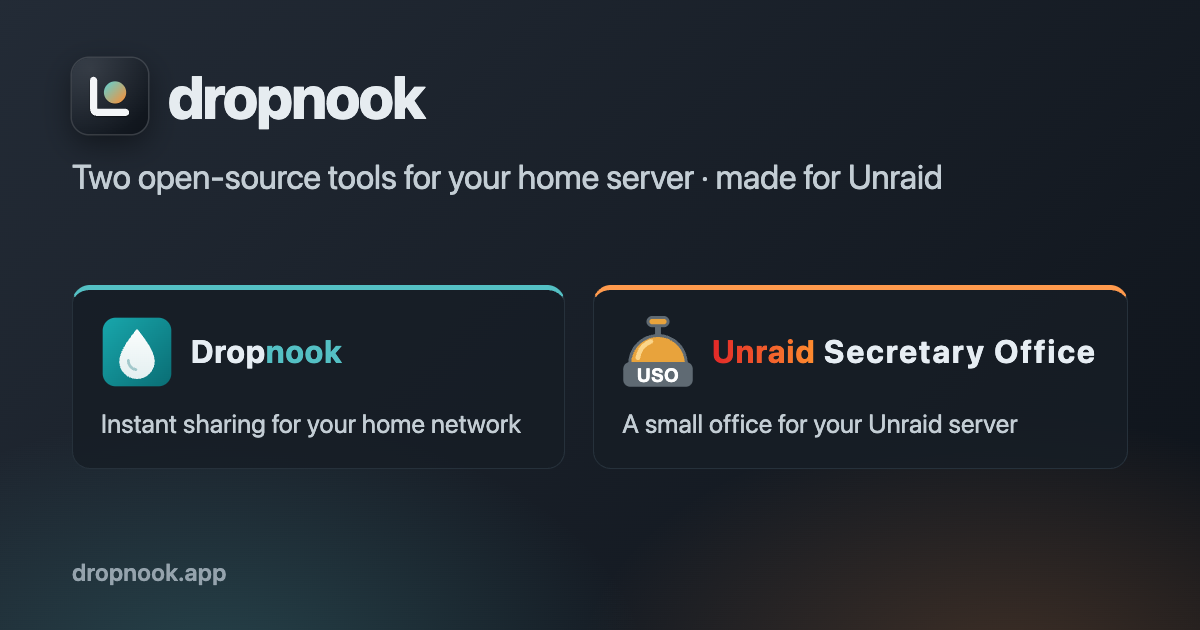
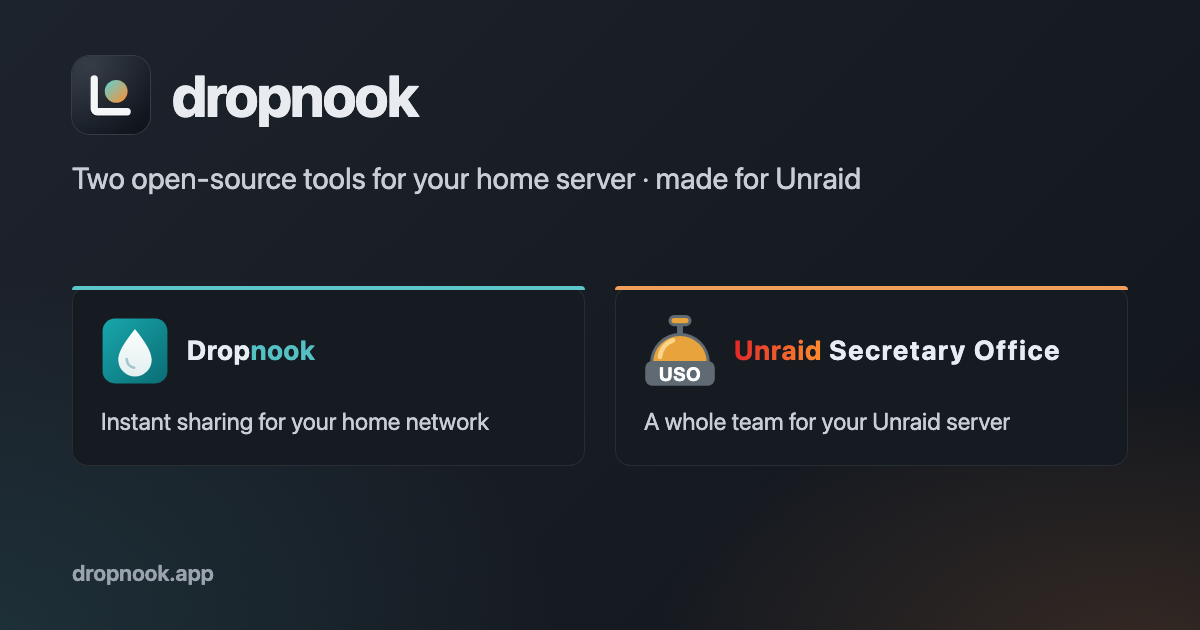
USO card: «A whole team supports you in running your Unraid server» — the office's own lead — and all ten characters by name (Backupsy, Restori, Snapshotini; Moverelli, Jack Streamer; Night Watchman, Protocolli, Dustdevil; Team Lead, Consultant); meta, JSON-LD, README and the social preview say «a w

diff --git a/de/index.html b/de/index.html
@@ -5,7 +5,7 @@
 <meta name="viewport" content="width=device-width, initial-scale=1">
 <meta name="color-scheme" content="light dark">
 <title>dropnook — zwei Open-Source-Werkzeuge für deinen Heimserver</title>
-<meta name="description" content="dropnook macht zwei kostenlose Open-Source-Werkzeuge für deinen Unraid-Server: Dropnook, Instant-Share fürs Heimnetz, und das Unraid Secretary Office, ein kleines Sekretariat, das sich um deinen Server kümmert. Keine Cloud, kein Konto.">
+<meta name="description" content="dropnook macht zwei kostenlose Open-Source-Werkzeuge für deinen Unraid-Server: Dropnook, Instant-Share fürs Heimnetz, und das Unraid Secretary Office, ein ganzes Team, das dich bei deiner Serveradministration unterstützt. Keine Cloud, kein Konto.">
 <link rel="canonical" href="https://dropnook.app/de/">
 <link rel="alternate" hreflang="en" href="https://dropnook.app/">
 <link rel="alternate" hreflang="de" href="https://dropnook.app/de/">
@@ -15,7 +15,7 @@
 <meta property="og:locale" content="de_CH">
 <meta property="og:locale:alternate" content="en_GB">
 <meta property="og:title" content="dropnook — zwei Open-Source-Werkzeuge für deinen Heimserver">
-<meta property="og:description" content="Dropnook — Instant-Share fürs Heimnetz. Unraid Secretary Office — ein kleines Sekretariat für deinen Unraid-Server. Kostenlos und Open Source.">
+<meta property="og:description" content="Dropnook — Instant-Share fürs Heimnetz. Unraid Secretary Office — ein ganzes Team für deinen Unraid-Server. Kostenlos und Open Source.">
 <meta property="og:url" content="https://dropnook.app/de/">
 <meta property="og:image" content="https://dropnook.app/social-preview.png">
 <meta property="og:image:width" content="1200">
@@ -61,7 +61,7 @@
    "@id": "https://dropnook.app/de/#page",
    "url": "https://dropnook.app/de/",
    "name": "dropnook — zwei Open-Source-Werkzeuge für deinen Heimserver",
-   "description": "dropnook macht zwei kostenlose Open-Source-Werkzeuge für deinen Unraid-Server: Dropnook, Instant-Share fürs Heimnetz, und das Unraid Secretary Office, ein kleines Sekretariat, das sich um deinen Server kümmert. Keine Cloud, kein Konto.",
+   "description": "dropnook macht zwei kostenlose Open-Source-Werkzeuge für deinen Unraid-Server: Dropnook, Instant-Share fürs Heimnetz, und das Unraid Secretary Office, ein ganzes Team, das dich bei deiner Serveradministration unterstützt. Keine Cloud, kein Konto.",
    "inLanguage": "de",
    "isPartOf": {
     "@id": "https://dropnook.app/#site"
@@ -105,7 +105,7 @@
    "@id": "https://uso.dropnook.app/#software",
    "name": "Unraid Secretary Office",
    "alternateName": "USO",
-   "description": "Ein kleines Sekretariat für deinen Unraid-Server — ein Team von Figuren, jede kümmert sich um einen Teil davon.",
+   "description": "Ein ganzes Team unterstützt dich bei deiner Serveradministration — zehn Figuren, jede kümmert sich um einen Teil davon.",
    "url": "https://uso.dropnook.app/",
    "applicationCategory": "UtilitiesApplication",
    "applicationSubCategory": "Server administration",
@@ -182,11 +182,12 @@
           <source media="(prefers-color-scheme: dark)" srcset="../logos/uso-title-dark.svg">
           <img src="../logos/uso-title-light.svg" width="580" height="60" alt="Unraid Secretary Office">
         </picture></h2>
-        <p class="what">Ein kleines Sekretariat für deinen Unraid-Server — ein Team von Figuren, jede kümmert sich um einen Teil davon.</p>
+        <p class="what">Ein ganzes Team unterstützt dich bei deiner Serveradministration — zehn Figuren, jede kümmert sich um einen Teil davon.</p>
         <ul class="does">
-          <li>Snapshots und die nächtliche Sicherung, mit einer Übung, die beweist, dass sie zurückkommt.</li>
-          <li>Protokolle, eine Nachtwache für die Sicherheit und Aufräumen, was niemand mehr braucht.</li>
-          <li>Ein Plugin für Unraid 7, hinter Unraids Login — keine Cloud, kein Konto.</li>
+          <li>Herr Backupsi sichert nach deinem Zeitplan, mit Kopia verschlüsselt auch ausser Haus; Herr Restori holt Apps, Ordner und VMs zurück und übt es regelmässig; Frau Snapshotini führt die Snapshots.</li>
+          <li>Frau Moverelli hält den Pool schnell und aufgeräumt, Jack Streamer legt bereit, was als Nächstes in Emby, Jellyfin und Plex läuft.</li>
+          <li>Der Nachtwächter macht alle fünf Minuten seinen Rundgang, Frau Protokolli bringt alle Protokolle an einen Ort, Frau Putzteufel räumt weg, was niemand mehr braucht.</li>
+          <li>Der Teamchef schlägt vor, wen du einstellst, der Berater installiert mit dir, was fehlt — ein Plugin für Unraid 7.3.2 oder neuer, hinter Unraids Login, keine Cloud, kein Konto.</li>
         </ul>
         <p class="ctas">
           <a class="btn two" href="https://uso.dropnook.app/de/"><span>Zur Webseite</span><small>uso.dropnook.app</small></a>

diff --git a/index.html b/index.html
@@ -5,7 +5,7 @@
 <meta name="viewport" content="width=device-width, initial-scale=1">
 <meta name="color-scheme" content="light dark">
 <title>dropnook — two open-source tools for your home server</title>
-<meta name="description" content="dropnook makes two free, open-source tools for your Unraid server: Dropnook, instant sharing for your home network, and the Unraid Secretary Office, a small office that looks after your server. No cloud, no account.">
+<meta name="description" content="dropnook makes two free, open-source tools for your Unraid server: Dropnook, instant sharing for your home network, and the Unraid Secretary Office, a whole team that supports you in running your server. No cloud, no account.">
 <link rel="canonical" href="https://dropnook.app/">
 <link rel="alternate" hreflang="en" href="https://dropnook.app/">
 <link rel="alternate" hreflang="de" href="https://dropnook.app/de/">
@@ -15,7 +15,7 @@
 <meta property="og:locale" content="en_GB">
 <meta property="og:locale:alternate" content="de_CH">
 <meta property="og:title" content="dropnook — two open-source tools for your home server">
-<meta property="og:description" content="Dropnook — instant sharing for your home network. Unraid Secretary Office — a small office for your Unraid server. Free and open source.">
+<meta property="og:description" content="Dropnook — instant sharing for your home network. Unraid Secretary Office — a whole team for your Unraid server. Free and open source.">
 <meta property="og:url" content="https://dropnook.app/">
 <meta property="og:image" content="https://dropnook.app/social-preview.png">
 <meta property="og:image:width" content="1200">
@@ -61,7 +61,7 @@
    "@id": "https://dropnook.app/#page",
    "url": "https://dropnook.app/",
    "name": "dropnook — two open-source tools for your home server",
-   "description": "dropnook makes two free, open-source tools for your Unraid server: Dropnook, instant sharing for your home network, and the Unraid Secretary Office, a small office that looks after your server. No cloud, no account.",
+   "description": "dropnook makes two free, open-source tools for your Unraid server: Dropnook, instant sharing for your home network, and the Unraid Secretary Office, a whole team that supports you in running your server. No cloud, no account.",
    "inLanguage": "en",
    "isPartOf": {
     "@id": "https://dropnook.app/#site"
@@ -105,7 +105,7 @@
    "@id": "https://uso.dropnook.app/#software",
    "name": "Unraid Secretary Office",
    "alternateName": "USO",
-   "description": "A small office for your Unraid server — a team of characters, each looking after one part of it.",
+   "description": "A whole team supports you in running your Unraid server — ten characters, each looking after one part of it.",
    "url": "https://uso.dropnook.app/",
    "applicationCategory": "UtilitiesApplication",
    "applicationSubCategory": "Server administration",
@@ -182,11 +182,12 @@
           <source media="(prefers-color-scheme: dark)" srcset="logos/uso-title-dark.svg">
           <img src="logos/uso-title-light.svg" width="580" height="60" alt="Unraid Secretary Office">
         </picture></h2>
-        <p class="what">A small office for your Unraid server — a team of characters, each looking after one part of it.</p>
+        <p class="what">A whole team supports you in running your Unraid server — ten characters, each looking after one part of it.</p>
         <ul class="does">
-          <li>Snapshots and nightly backups, with a restore drill that proves they come back.</li>
-          <li>Logs, a night watch on security, and tidying up what nobody uses any more.</li>
-          <li>A plugin for Unraid 7, behind Unraid’s login — no cloud, no account.</li>
+          <li>Mr. Backupsy backs up on your schedule, encrypted off-site with Kopia too; Mr. Restori brings apps, folders and VMs back and drills it regularly; Ms. Snapshotini keeps the snapshots.</li>
+          <li>Ms. Moverelli keeps the pool fast and tidy, Jack Streamer puts ready what plays next in Emby, Jellyfin and Plex.</li>
+          <li>The Night Watchman makes his round every five minutes, Ms. Protocolli brings every log into one place, Ms. Dustdevil clears away what nobody uses any more.</li>
+          <li>The Team Lead suggests whom to hire, the Consultant installs what’s missing with you — a plugin for Unraid 7.3.2 or newer, behind Unraid’s login, no cloud, no account.</li>
         </ul>
         <p class="ctas">
           <a class="btn two" href="https://uso.dropnook.app/"><span>Visit the site</span><small>uso.dropnook.app</small></a>

diff --git a/README.md b/README.md
@@ -6,7 +6,7 @@ server and sends you on to their own sites.
 | | Site | Code | Licence |
 |---|---|---|---|
 | **Dropnook** — instant sharing for your home network | https://dropnook.dropnook.app/ | [dropnook/dropnook.app](https://github.com/dropnook/dropnook.app) | AGPL-3.0 |
-| **Unraid Secretary Office** — a small office for your Unraid server | https://uso.dropnook.app/ | [dropnook/UnraidSecretaryOffice](https://github.com/dropnook/UnraidSecretaryOffice) | GPL-3.0-or-later |
+| **Unraid Secretary Office** — a whole team for your Unraid server | https://uso.dropnook.app/ | [dropnook/UnraidSecretaryOffice](https://github.com/dropnook/UnraidSecretaryOffice) | GPL-3.0-or-later |
 
 Below the two products, a quieter section «From the neighbourhood» / «Aus der Nachbarschaft» lists the nine projects
 from [helminet.ch](https://helminet.ch/), helmi1987's collection of their own open-source projects (which in turn
